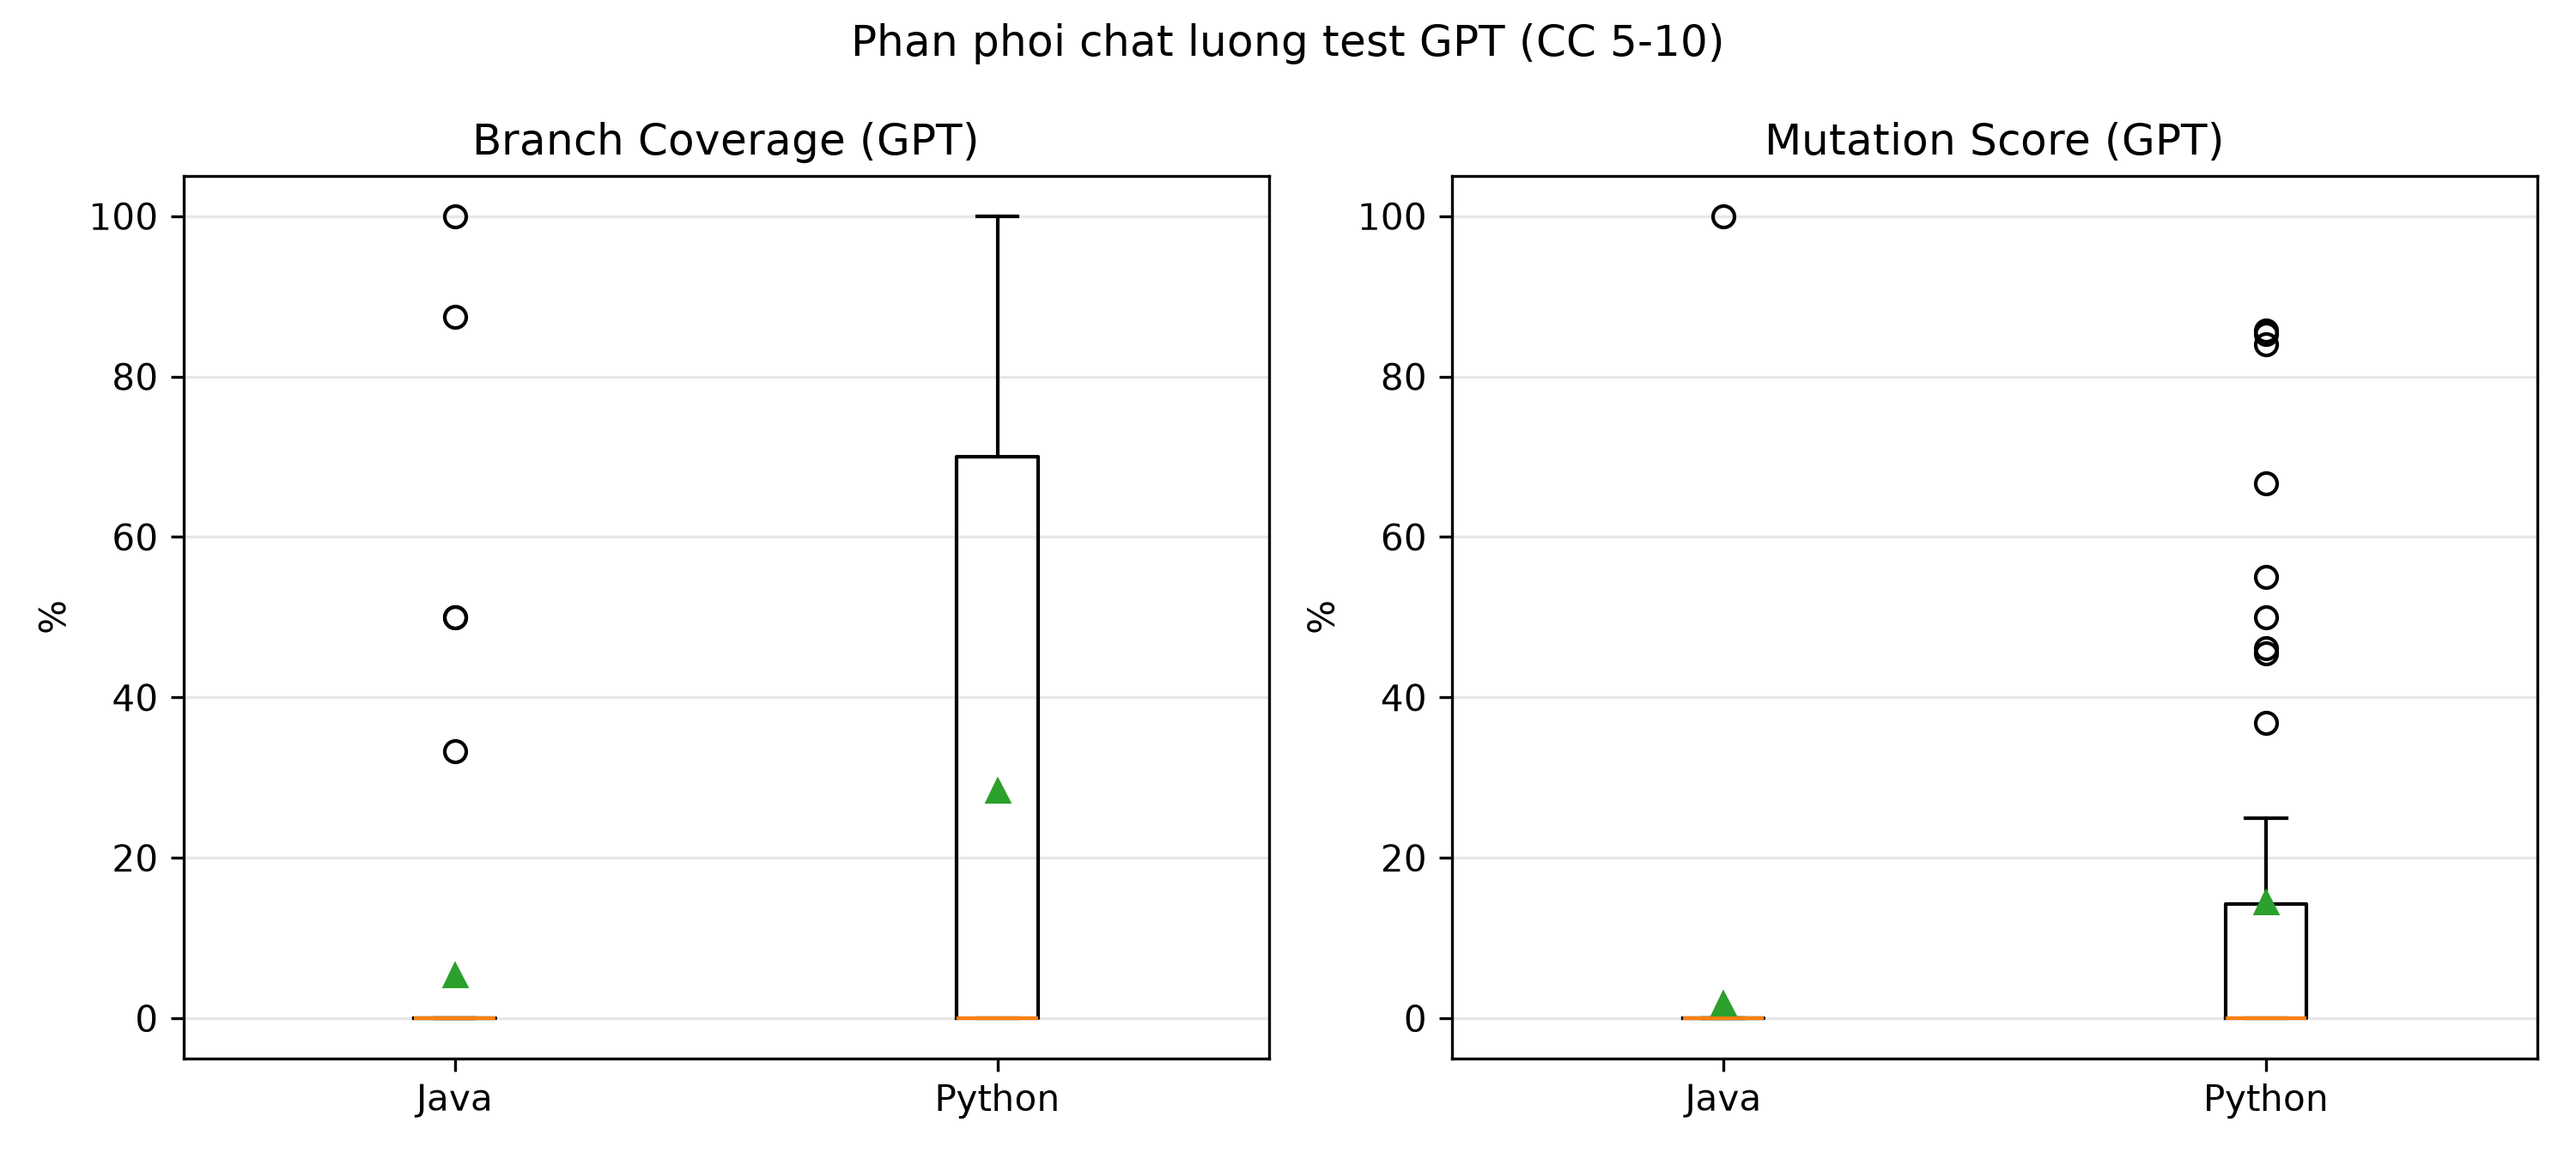
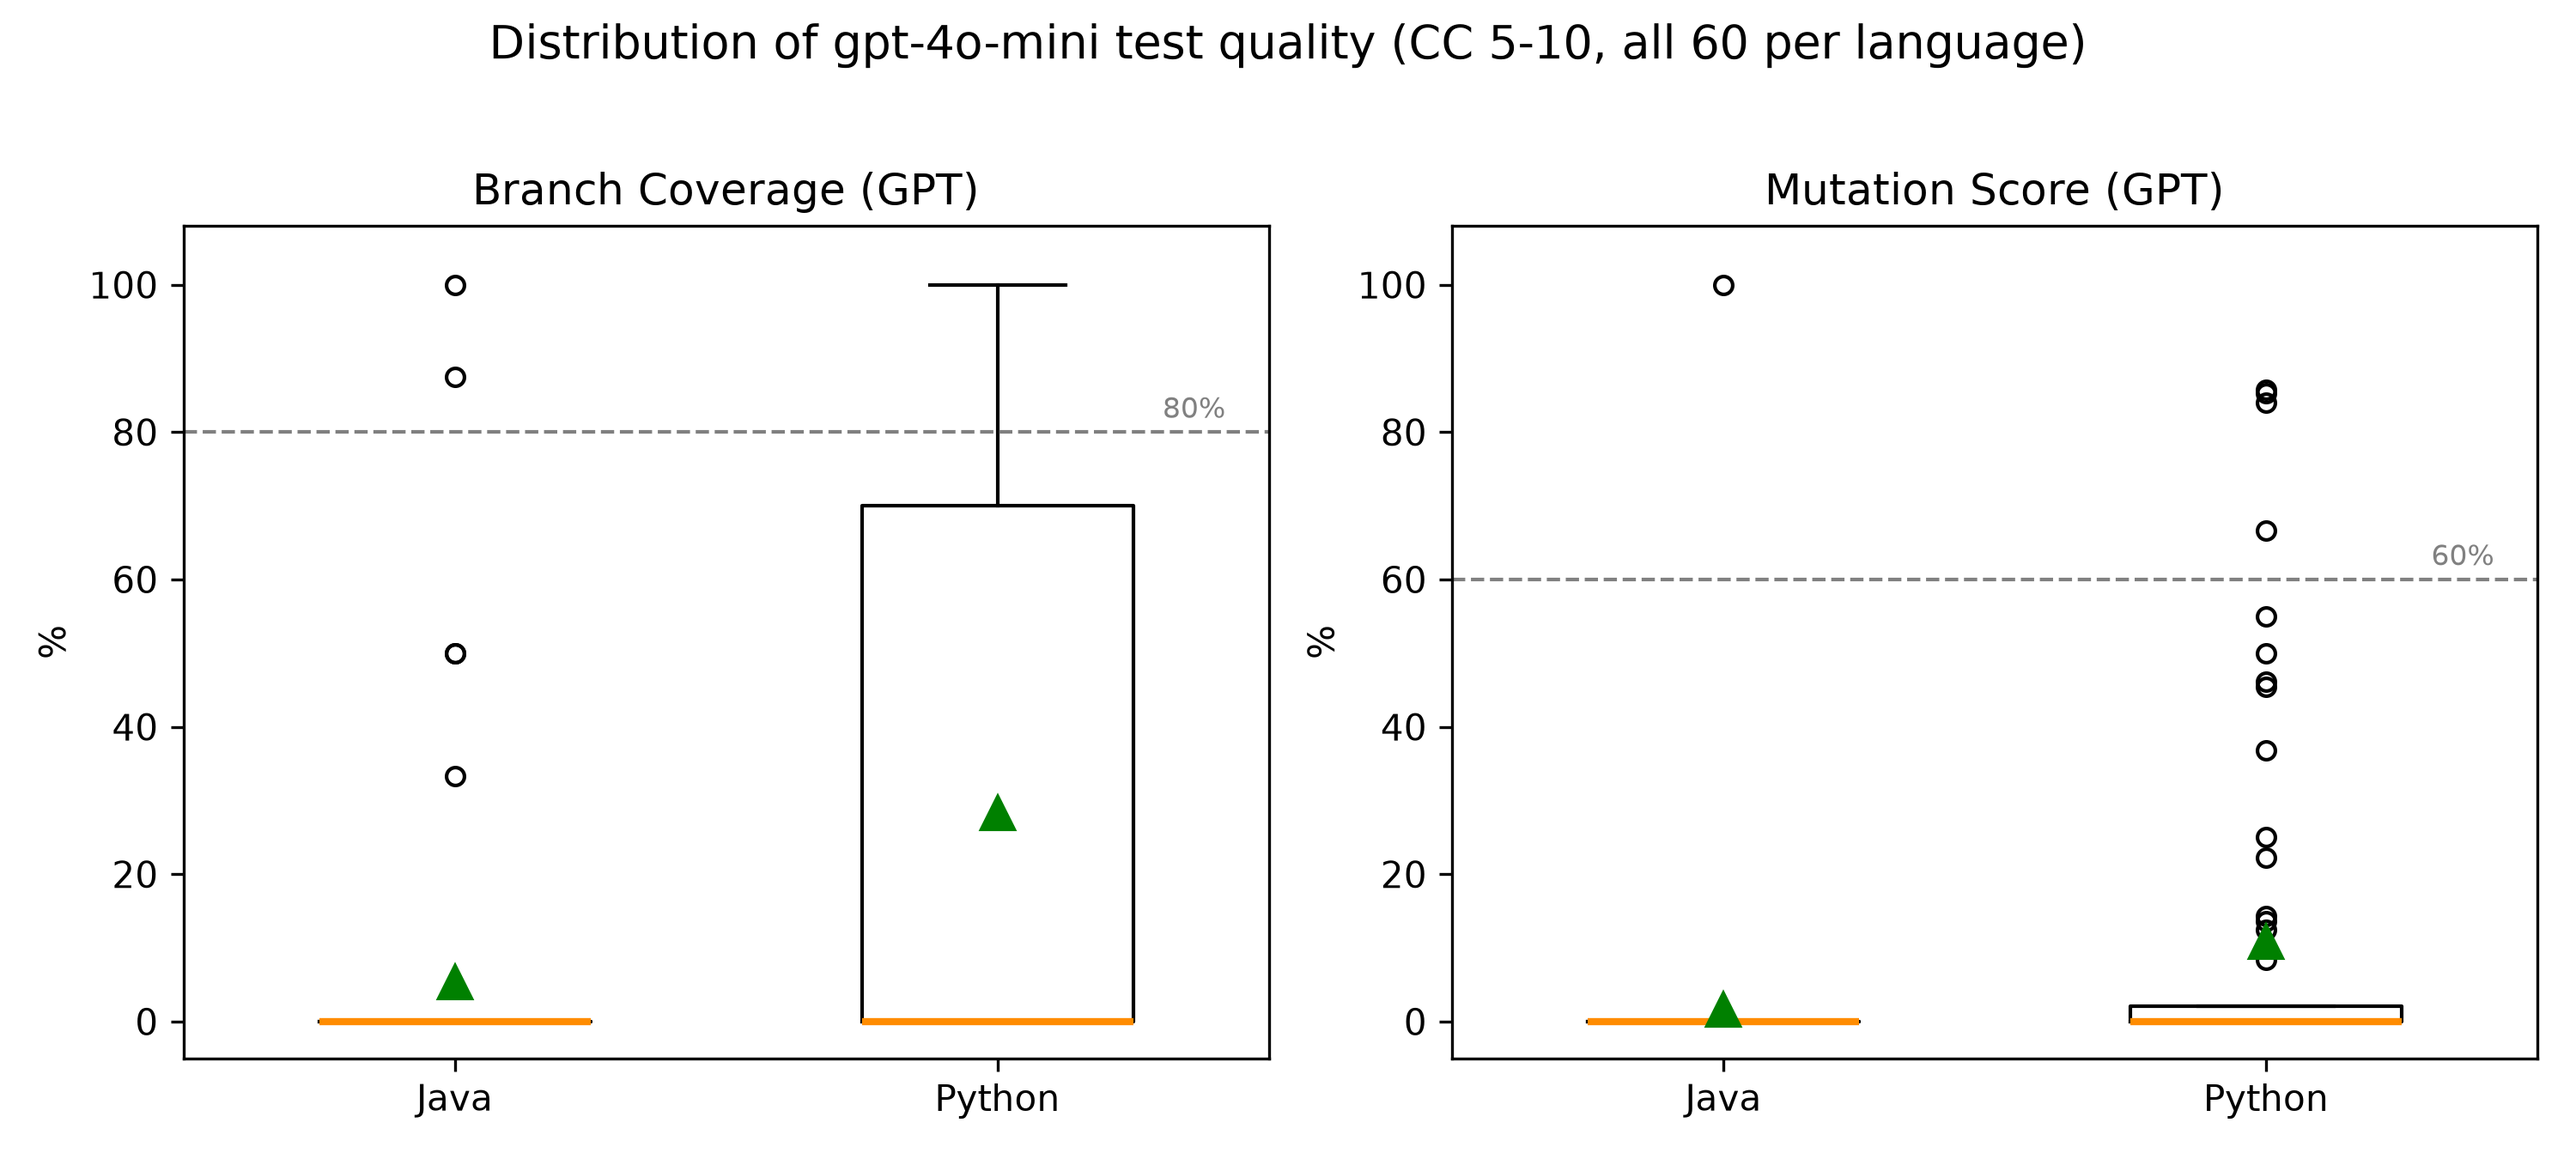
[RBL-5] Paper1: sua 4 blocker hinh + loi chu/nhat quan/bib sau vong verify da tac nhan (72 agent)
HINH (ve lai tu du lieu chuan, khong doi 1 con so thong ke nao):
- fig2_comparison.png: cu ve cot GPT = mutation PYTHON (15 diem >0) nhung caption ghi
  'n=54 Java, EvoSuite thang moi cap r=-1.00'. Ve lai = Java gpt vs Java EvoSuite n=54
  matched: GPT median 0, mean 1.85, 1 outlier JA-060=100; EvoSuite mean 21.16. Khop caption.
- fig1_distribution.png: bo tieu de tieng Viet 'Phan phoi chat luong test GPT'; them
  tieu de tieng Anh + duong gach 80%/60%. Sua caption (cu ghi 'effective subset' nhung ve
  all-level) -> 'all 60/language, median 0, effective medians in text'.

CHU / NHAT QUAN (khong doi so):
- 04_results: '17/60 killed at least one mutant' -> 'measurable mutation score' (17 la tap
  do duoc; chi 15 giet >=1 mutant; khop caption bang 'meas. (17)').
- '9 non-compiling Java suites' -> '9 suites our pipeline scored INVALID' (04_results:55,
  05_discussion:47). Javac that fail 43, khong phai 9 - paper tu mau thuan.
- 'rare failures' -> 'dominant failure mode' (wrong-target la 46/60).
- 76.7%: them qualifier 'pipeline compile check' + 46/60.
- amendment: 04_results khop 06_threats (Pynguin venv 'not an amendment').
- 03_method: RQ3 'each metric' -> 'branch coverage'; operator list them '*' va '/';
  'effective always higher' -> 'never lower (mutation can coincide at 0)'.
- 02_related: Randoop 10s la loi cau hinh pilot, khong phai default.
- 07_conclusion: 'like RQ4's' -> 'RQ5's' (repair loop moi la self-improving).
[…]

diff --git a/paper/sections/04_results.tex b/paper/sections/04_results.tex
@@ -50,11 +50,11 @@ that was not the target but was present and accessible. For instance,
 actually the nested \texttt{CommandLine.Builder.getOptionValues(\ldots)}; elsewhere a
 same-named method inherited from a parent class was invoked instead of the intended
 override. Java's suites were syntactically and semantically valid but did not target the
-intended code --- rare failures, but severe, since they provided no coverage of the
-target. After validity, only 5/60 (8.3\%) of Java suites were effective, compared to
-23/60 (38.3\%) for Python. Of the 9 non-compiling Java suites, 6 targeted
-\texttt{AccurateMath} --- a class packed with overloaded methods of similar signatures ---
-and 3 targeted \texttt{Gson}'s generic adapters (\texttt{getAdapter},
+intended code --- the dominant failure mode, and a severe one, since they provided no
+coverage of the target. After validity, only 5/60 (8.3\%) of Java suites were effective,
+compared to 23/60 (38.3\%) for Python. Of the 9 suites our pipeline scored \textsc{invalid},
+6 targeted \texttt{AccurateMath} --- a class packed with overloaded methods of similar
+signatures --- and 3 targeted \texttt{Gson}'s generic adapters (\texttt{getAdapter},
 \texttt{getDelegateAdapter}, \texttt{fromJson}); only one of the 9 targeted a
 \texttt{private} method. Java's validity problems cluster in classes with overloaded
 methods and generics, not around private methods --- which shapes the fix: making the
@@ -80,7 +80,7 @@ all-level 0\% median.
 
 \subsection{RQ2 --- Mutation score}
 \textbf{(A) vs.\ 60\%.} The pattern repeats: across all 60 functions the median score was
-\textbf{0\%}, with only 17/60 functions producing a suite that killed at least one mutant
+\textbf{0\%}, with only 17/60 functions producing a suite with a measurable mutation score
 (Table~\ref{tab:rq}). Restricting to those 17 green suites, the effective median rose to
 \textbf{36.84\%} ($n=17$; only 4/17 cleared 60\%), and the one-sample Wilcoxon did not
 support the threshold ($p=0.99$, $r=-0.66$). Java was comparable: all-function median
@@ -156,8 +156,10 @@ RQ3 All & CC$\sim$Cov & eff (28) & $\rho{=}{+}0.16$ & 0.40 & $+0.16$ \\
 \begin{figure}[t]
 \centering
 \includegraphics[width=\linewidth]{figures/fig1_distribution.png}
-\caption{Branch coverage and mutation score of gpt-4o-mini on the effective subset
-(dashed: 80\% / 60\% thresholds). The all-function medians are 0\% (see text).}
+\caption{Branch coverage (left) and mutation score (right) of gpt-4o-mini across all 60
+functions per language ($N=120$); the median is 0\% in every panel (dashed: 80\% / 60\%
+thresholds). Effective-subset medians (75.0\% Python / 50.0\% Java coverage; 36.84\% Python
+mutation) are given in the text.}
 \label{fig:dist}
 \end{figure}
 
@@ -168,8 +170,10 @@ still below 80\%. When counting all 120 functions, the median is 0\%. There is n
 link between complexity and quality within CC 5--10 for either language. What matters
 most here is test validity, and it breaks differently in each language: Python mostly
 dies at compile time (46.7\% \textsc{invalid}, dominated by \texttt{ImportError}), while
-Java mostly compiles and then measures nothing (76.7\% compile yet touch 0\% of the
-target), through silent wrong-target/overload resolution. Effective suites make up only 8.3\% of the Java
+Java mostly passes our pipeline's compile check and then measures nothing (46/60 $=$ 76.7\%
+were scored \texttt{compiled} yet touch 0\% of the target; the direct \texttt{javac} audit
+of Section~\ref{sec:threats} puts genuine compilation lower still), through silent
+wrong-target/overload resolution. Effective suites make up only 8.3\% of the Java
 sample and 38.3\% of the Python one. On paired comparisons, gpt-4o-mini loses decisively to
 both automated Java baselines (EvoSuite, Randoop; $r=-1.00$ each) but beats the Python
 baseline Pynguin, whose own coverage on this dataset sits at 0.0\% because of
@@ -184,9 +188,9 @@ from a clean editable-install environment; the exact invalid rate is sensitive t
 precise \texttt{flask}/\texttt{requests} dependency versions in use. The Python baseline
 figures needed a separate Python~3.10 virtual environment just for Pynguin, since
 Pynguin's bytecode instrumentation silently produced empty test suites under Python~3.14,
-the platform otherwise used for GPT/measurement scripting; this is documented in
-Section~\ref{sec:threats} as an environment amendment, not as a change to any
-pre-registered metric or threshold. \textbf{Sample size.} Effective $n$ is small in every
+the platform otherwise used for GPT/measurement scripting; as detailed in
+Section~\ref{sec:threats}, this environment fix was applied uniformly before any data were
+collected and changes no pre-registered metric or threshold. \textbf{Sample size.} Effective $n$ is small in every
 cell (5--28), and particularly so for Java RQ1/RQ3 ($n=5$) --- those point estimates are
 indicative, not precise. \textbf{Single sample.} With one generation per
 function (one-shot, temp $=0$), we have no per-function variance estimate.

diff --git a/paper/sections/03_method.tex b/paper/sections/03_method.tex
@@ -80,8 +80,9 @@ with \texttt{mutmut}~2.4.4, with all lines outside the target function's range m
 considered; the score is the fraction of mutants with a non-surviving status (killed or
 timed out) over all mutants generated in the line range. The Pynguin suites are scored
 with a home-grown script using Python's standard-library \texttt{ast}: it replaces
-\texttt{+} and \texttt{-}, \texttt{>} and \texttt{>=}, \texttt{<} and \texttt{<=},
-\texttt{==}, \texttt{and}, and \texttt{or} with their opposites, negates boolean literals,
+\texttt{+} and \texttt{-}, \texttt{*} and \texttt{/}, \texttt{>} and \texttt{>=},
+\texttt{<} and \texttt{<=}, \texttt{==}, \texttt{and}, and \texttt{or} with their opposites,
+negates boolean literals,
 increments numeric literals by 1, and applies any of these changes to exactly one site in
 the target function's line range, up to 20 mutants per function. Every such mutant is
 scored by rerunning the whole test suite with a 90s timeout: the suite killed the mutant
@@ -120,12 +121,13 @@ variables. RQ1 requires one test: a one-sample Wilcoxon signed-rank test of bran
 coverage against the 80\% threshold. RQ2 requires two: a one-sample Wilcoxon signed-rank
 test of mutation scores against the 60\% threshold, and a paired Wilcoxon test (matched by
 \texttt{function\_id}) of the same against each baseline, with matched-pairs rank-biserial
-$r$ as the effect size. Finally, RQ3 requires a Spearman correlation of CC with each
-quality metric. Every statistic is reported at two levels: \emph{all} ($N = 60$ per
+$r$ as the effect size. Finally, RQ3 requires a Spearman correlation of CC with branch
+coverage. Every statistic is reported at two levels: \emph{all} ($N = 60$ per
 language, with \textsc{invalid} or non-touching test suites scored at 0\% per the
 pre-registered procedure) and \emph{effective} (test suites that successfully compiled and
 touched the target lines). The two levels are never reported separately without the other,
 since omitting the all-level would artificially inflate the statistics: an effective suite
-always has higher coverage than an invalid one (0\% versus some positive number), so the
-effective figure is always higher than the all figure by construction.
+has higher coverage than an invalid one (0\% versus some positive number), so the
+effective figure is never lower than the all figure by construction (strictly higher for
+coverage; for mutation the two can coincide at 0\%).
 Section~\ref{sec:discussion} contains more context on this point.

diff --git a/paper/sections/02_related.tex b/paper/sections/02_related.tex
@@ -89,8 +89,9 @@ them report compilation failures.
 When evaluating these tools, one of the first issues we had to address was the time
 budget. With default settings, EvoSuite's results were considerably better than Randoop's.
 The discrepancy was significant enough that we suspected a mistake at first. It turned out
-that EvoSuite's default budget was 60 seconds per class, while Randoop's was 10 seconds
-per class. We adjusted the budget to 60 seconds per class for both tools and 90 seconds
+that EvoSuite ran with its 60-second default per class while our pilot harness had given
+Randoop only 10 seconds per class --- our own misconfiguration, not a Randoop default. We
+adjusted the budget to 60 seconds per class for both tools and 90 seconds
 per module for Pynguin. We also shifted the emphasis from per-call metrics to per-class
 (Java) or per-module (Python) ones. As a result, we were able to show that, with a
 comparable time budget, EvoSuite significantly outperformed Randoop: 55.0 median branch

diff --git a/paper/sections/05_discussion.tex b/paper/sections/05_discussion.tex
@@ -44,8 +44,8 @@ Filtering such functions after discovering Java's low effective rate would intro
 selection effect and violate the pre-registered protocol (amendments~v1.1/v1.2,
 Section~\ref{sec:threats}). And the data speak plainly to another cause: the primary
 reason for Java's low test quality was wrong-target invocation. A private target is
-involved in only 1 of the 9 genuinely non-compiling Java functions and only 14 of the 46
-that compiled but touched nothing (Section~\ref{sec:results}). The outright compile
+involved in only 1 of the 9 Java functions our pipeline scored \textsc{invalid} and only 14
+of the 46 that compiled but touched nothing (Section~\ref{sec:results}). The outright compile
 failures are distributed differently, concentrated in the API-heavy \texttt{AccurateMath}
 and \texttt{Gson} classes (Section~\ref{sec:results}).
 

diff --git a/paper/sections/07_conclusion.tex b/paper/sections/07_conclusion.tex
@@ -58,7 +58,7 @@ from the effect of repeated retries. Third, replicate the analysis with larger L
 or otherwise) to separate the effect of model capacity from prompt engineering. Fourth,
 broaden the Python sample to further libraries and take both languages to higher CC bands
 to observe trends beyond CC~10. Finally, automate the evaluation itself for in-situ testing
-inside a CI/CD pipeline, so interventions like RQ4's can run as self-improving processes.
+inside a CI/CD pipeline, so interventions like RQ5's can run as self-improving processes.
 Each of these would benefit from pre-registration.
 
 Overall, our findings do not support one-shot test generation as a viable substitute for
